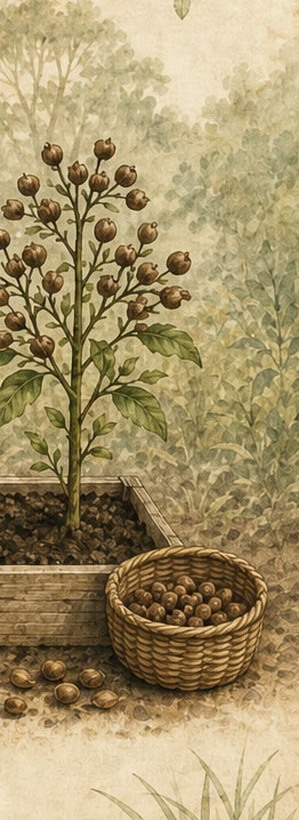
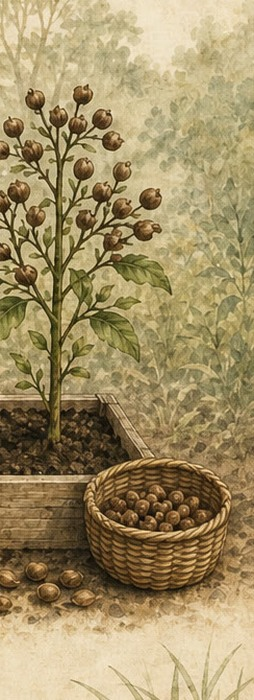
Sit the current crate on a garden bed with seeds behind it
Tighten each planter crop so the plot reads as a crate in the soil,
not a photo window. Scatter earned seeds on the bed and plant
harvested stages along the back row.

diff --git a/src/components/writing/seed-garden.tsx b/src/components/writing/seed-garden.tsx
@@ -27,20 +27,20 @@ const SEED_CHIP = [
   '/marketing/seed-patch/garden-seed-2.jpg',
 ] as const;
 
-/** Plants sit on the soil in the back — not in a row, not in photo frames. */
-const GARDEN_SLOTS: { left: string; bottom: string; width: string }[] = [
-  { left: '1%', bottom: '34%', width: '18%' },
-  { left: '80%', bottom: '33%', width: '19%' },
-  { left: '14%', bottom: '40%', width: '14%' },
-  { left: '70%', bottom: '42%', width: '14%' },
-  { left: '-2%', bottom: '26%', width: '16%' },
-  { left: '86%', bottom: '25%', width: '16%' },
-  { left: '22%', bottom: '46%', width: '12%' },
-  { left: '64%', bottom: '47%', width: '12%' },
-  { left: '8%', bottom: '48%', width: '11%' },
-  { left: '78%', bottom: '49%', width: '11%' },
-  { left: '28%', bottom: '36%', width: '13%' },
-  { left: '58%', bottom: '37%', width: '13%' },
+/** Back row of the garden — crates rest on the soil line, left and right of the plot. */
+const GARDEN_SLOTS: { left: string; width: string; z: number }[] = [
+  { left: '0%', width: '20%', z: 2 },
+  { left: '79%', width: '21%', z: 2 },
+  { left: '12%', width: '16%', z: 1 },
+  { left: '70%', width: '16%', z: 1 },
+  { left: '-4%', width: '18%', z: 3 },
+  { left: '86%', width: '18%', z: 3 },
+  { left: '20%', width: '13%', z: 1 },
+  { left: '66%', width: '13%', z: 1 },
+  { left: '6%', width: '12%', z: 1 },
+  { left: '81%', width: '12%', z: 1 },
+  { left: '26%', width: '14%', z: 2 },
+  { left: '60%', width: '14%', z: 2 },
 ];
 
 function planterSrc(stageIndex: number): string {
@@ -91,47 +91,47 @@ export function SeedGardenScene({
     lifetimeSeeds,
   });
   const seeds = gardenSeedCount(lifetimeSeeds);
-  const showBasket = weeklyHarvests > 0 || beds.includes(GROWTH_STAGES.length - 1);
+  const showBasket = weeklyHarvests > 0 || currentIndex >= GROWTH_STAGES.length - 1;
 
   return (
     <figure className={className}>
-      <div className="relative overflow-hidden rounded-xl border border-amber-200/80 bg-[#e6d9b8] shadow-sm">
+      <div className="relative overflow-hidden rounded-xl border border-amber-200/70 bg-[#d7c49a] shadow-sm">
         {/* eslint-disable-next-line @next/next/no-img-element */}
         <img
           src="/marketing/seed-patch/garden-hills.jpg"
           alt=""
-          className="pointer-events-none absolute inset-x-0 top-0 h-[58%] w-full object-cover object-top"
+          className="pointer-events-none absolute inset-x-0 top-0 h-[46%] w-full object-cover object-top"
+          aria-hidden
+        />
+        <div
+          className="pointer-events-none absolute inset-x-0 bottom-0 h-[58%] bg-gradient-to-b from-[#c4ae78] via-[#a88854] to-[#7a6240]"
           aria-hidden
         />
         {/* eslint-disable-next-line @next/next/no-img-element */}
         <img
           src="/marketing/seed-patch/garden-soil.jpg"
           alt=""
-          className="pointer-events-none absolute inset-x-0 bottom-0 h-[48%] w-full object-cover object-bottom"
-          aria-hidden
-        />
-        <div
-          className="pointer-events-none absolute inset-x-0 top-[48%] h-16 bg-gradient-to-b from-transparent to-[#cbb98a]/80"
+          className="pointer-events-none absolute inset-x-0 top-[40%] h-[22%] w-full object-cover object-top opacity-90"
           aria-hidden
         />
 
-        <div className="relative aspect-[16/11] min-h-[16.5rem] sm:min-h-[20rem]">
-          <ul className="absolute inset-0" aria-hidden>
+        <div className="relative min-h-[18rem] sm:min-h-[22rem]">
+          <ul className="absolute inset-x-0 top-[18%] h-[42%]" aria-hidden>
             {beds.map((stageIndex, slot) => {
               const place = GARDEN_SLOTS[slot] ?? GARDEN_SLOTS[0];
               return (
                 <li
                   key={`garden-${slot}-${stageIndex}`}
-                  className="absolute"
+                  className="absolute bottom-0"
                   style={{
                     left: place.left,
-                    bottom: place.bottom,
                     width: place.width,
+                    zIndex: place.z,
                   }}
                 >
                   <PlanterPhoto
                     stageIndex={stageIndex}
-                    className="h-auto w-full drop-shadow-[0_8px_10px_rgba(40,40,20,0.28)]"
+                    className="h-auto w-full"
                   />
                 </li>
               );
@@ -143,25 +143,25 @@ export function SeedGardenScene({
             <img
               src="/marketing/seed-patch/garden-basket.jpg"
               alt=""
-              className="pointer-events-none absolute bottom-[22%] right-[6%] w-[12%] drop-shadow-md sm:w-[9%]"
+              className="pointer-events-none absolute bottom-[28%] right-[4%] z-[4] w-[13%] sm:w-[10%]"
               aria-hidden
             />
           ) : null}
 
-          <ul className="absolute inset-x-[6%] bottom-[14%] h-[20%]" aria-hidden>
+          <ul className="absolute inset-x-0 bottom-[8%] h-[24%]" aria-hidden>
             {Array.from({ length: seeds }, (_, index) => {
-              const left = 3 + ((index * 17 + index * index * 3) % 90);
-              const bottom = 6 + ((index * 11 + 5) % 70);
-              const size = 9 + (index % 4) * 2;
+              const side = index % 2 === 0 ? 4 + ((index * 9) % 22) : 74 + ((index * 7) % 22);
+              const bottom = 10 + ((index * 13) % 55);
+              const size = 14 + (index % 3) * 5;
               return (
                 <li
                   key={`seed-${index}`}
-                  className="absolute overflow-hidden rounded-full"
+                  className="absolute overflow-hidden rounded-[40%]"
                   style={{
-                    left: `${left}%`,
+                    left: `${side}%`,
                     bottom: `${bottom}%`,
                     width: size,
-                    height: Math.round(size * 0.82),
+                    height: Math.round(size * 0.78),
                   }}
                 >
                   {/* eslint-disable-next-line @next/next/no-img-element */}
@@ -175,11 +175,11 @@ export function SeedGardenScene({
             })}
           </ul>
 
-          <div className="absolute bottom-[-6%] left-1/2 z-10 h-[92%] w-[58%] max-w-[19rem] -translate-x-1/2 sm:w-[46%]">
+          <div className="absolute bottom-0 left-1/2 z-10 h-[88%] w-[72%] max-w-[22rem] -translate-x-1/2 sm:w-[54%]">
             <PlanterPhoto
               stageIndex={currentIndex}
               alt={label}
-              className="h-full w-full object-contain object-bottom drop-shadow-[0_16px_18px_rgba(40,40,20,0.35)]"
+              className="h-full w-full object-contain object-bottom"
             />
           </div>
         </div>
@@ -193,9 +193,9 @@ export function SeedGardenScene({
             ? 'This plot sits in front. Seeds and harvested plants gather in the garden behind it.'
             : `${seeds} seed${seeds === 1 ? '' : 's'}${
                 beds.length > 0
-                  ? ` and ${beds.length} plant${beds.length === 1 ? '' : 's'}`
+                  ? ` and ${beds.length} harvested plant${beds.length === 1 ? '' : 's'}`
                   : ''
-              } in the garden behind — harvested plants stay there.`}
+              } in the garden behind this plot.`}
         </p>
       </figcaption>
     </figure>
